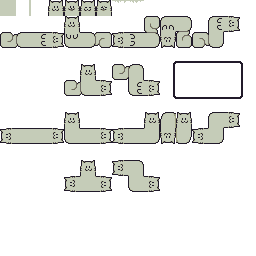
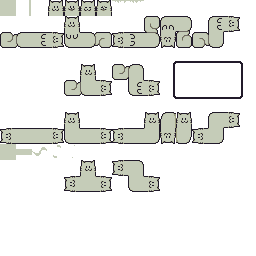
added particles when clearing lines

Changed region(s): [[0.0, 0.5625, 0.1562, 0.625], [0.2188, 0.5625, 0.25, 0.5938], [0.1562, 0.5625, 0.1875, 0.5938]]

diff --git a/Assets/spriteSheet.js b/Assets/spriteSheet.js
@@ -1,1 +1,1 @@
-var spriteSheet = "!g&d!2&i^2&a^2&2^2&a^2&2^2&a^2&2^2&a^2&!w&M1!g&d!2&i^@^%^6%^@^&2^@^%^6%^@^&2^@^%^6%^@^&2^@^%^6%^@^&4!&!2&!&3!2&4!&!2&!3&2!&P1!g&d!2&i^!@^@!4@^@!^&2^!@^@!4@^@!^&2^!@^@!4@^@!^&2^!@^@!4@^@!^&7!&5!&8!&2!&T1!g&d!2&i^!c^&2^!c^&2^!c^&2^!c^&h2!g&d!2&i^!c^&2^!c^&2^!c^&2^!c^&h2!g&d!2&i^!c^&2^!c^&2^!c^&2^!c^&h2!g&d!2&h%@!4^!2^!4@%2@!4^!2^!4@%2@!c@%2@!4%!%!5@%&g2!g&d!2&h^!5^!2^!5^2!5^!2^!5^2!4^2!2^2!4^2!4^2!2^2!4^&g2!g&d!2&h^%!2@!5@!3%^2%!2%!2^!2%!3%^2%!2@!5@!3%^2%!5^!6%^&g2!g&d!2&h^!3^!2^!2^!4^2!3@^%3^@!4^2!3^!2^!2^!4^2!3@^%3^@!4^&g2!g&d!2&h^%!2@^%!%^@!3%^2%!4@%2!5%^2%!2@^%!%^@!3%^2%!4@%@!5%^&g2!g&d!2&h@!e@2!e@2!e@2!e@&g2!g&d!2&h^!e^2!e^2!e^2!e^&g2!g&d!2&h^!e^2!e^2!e^2!e^&g2!g&d!2&h^!e^2!e^2!e^2!e^&g2!g&d!2&h^!e^2!e^2!e^2!e^&h3^2&a^2&31^c&6^o&o^g@^4%&n1^@^%^6%^@^&21^@!a@^&3^2@!m@^2&k^2@!g%!%!@^6&h1^!@^@!4@^@!^&11^@!c@^&^@!q@^&i^@!7@^3!g@^&h1^!c^&11^!e^&^!s^&i^!7@^!i@^&i1^!c^&11^!e^2@!s@^&g^@!7^!b@^@!5^%&i1^!c^&11^!e^2!u^&g^!8^!b^!7@^&h1%@!4^!2^!4@%&01^!e^2!u^&g^!8@^3!8%!2^2!4^&h1^!5^!2^!5^&01^!5@!8^2!u^&g^!l^!7^&h1^%!2@!5@!3%^&01^!5%!8^2!u^&g^!k%!8^&h1^!3^!2^!2^!4^&01^!5%!8^2!2@^2@!2@^2@!i^&g^!8@^3!8^!2^2!4^&h1^%!2@^%!%^@!3%^&01^!5%@!6@^2!@^!2^!2^!2^@!h^&g^!8^!b@^@!5@^&h1@!e@&01^!6%@!4@^&^!^!3^!2^!3^!g@^&g^!8^!j^%&h1^!e^&01^!7%6&2^!^!3^!2^!3^!g^&h^!8@^!i@^&h1^!e^&01^!a@^&3^!^!a^!f@^&h^!9@^3!g@^&g1^!e^&01^@!a@^&2^!q@^2&i^!k%!%!@^6&g1^!e^&11^@!a^&2^!e@^3%9@^&i^!e@^4@^4%&o^9&9^w@^4%&6^!e@^c&4^e&8%^4@^n%9@^&2^!e^&^@!a^&4^d&^!e^&x^@!7@^&6^2@!w%!%!@^7!q@^2&^@!c@^&^6@!%!%!w@^2&2^!e^2@!a@^&3^@!b@^2!e^&w^@!9@%&^4@!n@^3!g@^2!^!a^!f@^@!e@^2@!g^3@!n@^&^!e^2!a@^&3^@!d@^!e^&w^!b%^@!@^!n@^!i@^&^!^!3^!2^!3^!g^!g^&^@!i^@!n^&^!e^2!7%6&2^!f%!e^&w^!b%@!2%@!n^!b@^@!5^%&^!^!3^!2^!3^!g@%!f^&%^!j^!n@^@!e@^!6%@!4@^&^!f%!e^&w^!b%!3%!o^!b^!7@^&^!@^!2^!2^!2^@!h%!f^&^@!5@^@!b^!o^2%!2@^%!%^@!3%^2!5%@!6@^2!f%!e^&w^!b%!3%!o@^3!8%!2^2!4^&^!2@^2@!2@^2@!i%!5%3@!6^&^!4^2!2^!8^3@!o^2!3^!2^!2^!4^2!5%!8^2!6@%3!5%!e^&w^!a@%!3%!B^!7^&^!u%!4%@!9^&^!8%!A^2%!2@!5@!3%^2!5%!8^2!9@%!4%!e^&w^!9@%!4%!A%!8^&^!u%!3%@!a^&^!7^!B^2!5^!2^!5^2!5@!8^2!a@%!3%!e^&w^!6@%3!5%!o@^3!8^!2^2!4^&^!u%!3%!b^&^!4^2!2%!8^3@!o^%@!4^!2^!4@%^!e^2!b%!3%!e^&w^!f%!o^!b@^@!5@^&^!u%!3%!b^&^@!7^!b^!o^&^!c^&^!e^2!b%!3%!e^&w^!f%@!n^!j^%&^@!s@%!2@%!b^&%^!5@^@!b^!n@^&^!c^&^!e^2!b%@!2%@!c@^&w^!g^!n@^!i@^&2^!s^@!@^%!b^&^@!i^@!n^&2^!c^&^!e^2!b%^@!@^!c^&x^@!e@^@!n@^3!g@^&^@!q@^4&%@!9@^2@!g^3@!n@^&2^!@^@!4@^@!^&^@!c@^2@!9@%&^4@!a@^&y^@!c@^&^2@!w%!%!@^6&2^2@!m@^2&6^@!7@^&^6@!%!%!w@^2&3^@^%^6%^@^&2^@!a@^&2^@!7@^&6^2@!6@^2&A^e&4^w@^4%&a^o&9^9&8%^4@^w&5^2&a^2&3^c&4^9&9^8&jT^21&Z2^41&X2^3&01^3&u1^2&a^2&j^9&9^8&x^2&21^2&u1^@^%^6%^@^&i^@!7@^&6^2@!6@^2&v^2&21^2&u1^!@^@!4@^@!^&h^@!9@%&^4@!a@^&u^2&21^2&u1^!c^&h^!b%^@!@^!c^&u^2&21^2&u1^!c^&h^!b%@!2%@!c@^&t^2&21^2&u1^!c^&h^!b%!3%!e^&t^2&21^2&t1%@!4^!2^!4@%&g^!b%!3%!e^&t^2&21^2&t1^!5^!2^!5^&g^!a@%!3%!e^&t^2&21^2&t1^%!3@!5@!2%^&g^!9@%!4%!e^&t^2&21^2&t1^!4^!2^!2^!3^&g^!6@%3!5%!e^&t^2&21^2&t1^%!3@^%!%^@!2%^&g^!f%!e^&t^2&21^2&t1@!e@&g^!f%!e^&t^2&21^2&t1^!e^&g^!f%!e^&t^2&21^2&t1^!e^&g^@!d@^!e^&t^2&21^2&t1^!e^&h^@!b@^2!e^&t^2&21^2&t1^!e^&i^d&^!e^&t^2&21^2&f1^9&5^!e@^4@^4%&m^!e@^4@^4%&j^2&21^2&e1^@!7@^&4^!k%!%!@^6&g^!k%!%!@^6&d^2&21^2&d1^@!9@%&^2%!t@^&g^!9@^3!g@^&d^2&21^2&d1^!b%^@!%!s@^&h^!8@^!i@^&e^2&21^2&d1^!b%@!2%!s^%&h^!8^!j^%&e^2&21^2&d1^!b%!3%!k@^@!5@^&h^!8^!b@^@!5@^&e^2&21^2&d1^!b%!3%!k^!2^2!4^&h^!8@^3!8^!2^2!4^&e^2&21^2&d1^!a@%!3%!k%!8^&h^!k%!8^&e^2&21^2&d1^!9@%!4%!l^!7^&h^!l^!7^&e^2&21^2&d1^!6@%3!5%!k%!2^2!4^&h^!8@^3!8%!2^2!4^&e^2&21^2&d1^!f%!k^!7@^&h^!8^!b^!7@^&e^2&21^2&d1^!f%@!j@^@!5^%&h^@!7^!b@^@!5^%&e^2&21^2&d1^!g^!r@^&i^!7@^!i@^&e^2&21^2&d1^@!e@^@!r@^&h^@!7@^3!g@^&d^2&21^2&e1^@!c@^&^2@!g%!%!@^6&i^2@!g%!%!@^6&d^2&21^2&f1^e&4^g@^4%&q^g@^4%&j^2&21^2&W2^3&01^3&X2^41&Z2^21&gR^2&a^2&21^2&a^2&6^9&3^2&a^2&l^g@^4%&n1^@^%^6%^@^&21^@^%^6%^@^&4^2@!7@^2&^@^%^6%^@^&j^2@!g%!%!@^6&h1^!@^@!4@^@!^&21^!@^@!4@^@!^&3^@!a@2&^!@^@!4@^@!^&i^@!r@^&h1^!c^&21^!c^&3^!b@2&^!c^&i^!r@^&i1^!c^&21^!c^&2^@!c@&^!c^&h^@!j@^@!5^%&i1^!c^&21^!c^&2^!d@&^!c^&h^!k^!7@^&h1%@!4^!2^!4@%&01%@!4^!2^!4@%&^!d@%@!4^!2^!4@%&g^!k%!2^2!4^&h1^!5^!2^!5^&01^!5^!2^!5^2!e@^!5^!2^!5^&g^!l^!7^&h1^%!2@!5@!3%^&01^%!3@!5@!2%^2!e@^%!3@!5@!2%^&g^!k%!8^&h1^!3^!2^!2^!4^&01^!4^!2^!2^!3^2!e@^!4^!2^!2^!3^&g^!k^!2^2!4^&h1^%!2@^%!%^@!3%^&01^%!3@^%!%^@!2%^2!e@^%!3@^%!%^@!2%^&g^!k@^@!5@^&h1@!e@&01@!e@^!e@2!e@&g^!s^%&h1^!e^&01^!e^2!e@^!e^&g^!s@^&h1^!e^&01^!e^2!e@^!e^&g^!t@^&g1^!e^&01^!e^2!e@^!e^&g^!k%!%!@^6&g1^!e^&01^!e^2!e@^!e^&g^!e@^4@^4%&s%^4@^E@^4%&6^!e@^k@^4%&c%^4@^k@!e^2!e^@!e^&6%^4@^4@!e^&w^6@!%!%!G%!%!@^7!A%!%!@^c@!%!%!A^2!e^@!e^7@!%!%!k^&w^@!Y@^2!J@^2@!J^2!e^@!e^2@!t^&x^@!W@^&^!I@^&2^@!I^2!e^@!e^&^@!s^&x%^!O@^@!5^%&^!A@^@!5^%&2%^!I^@!e@2!e^&%^!s^&x^@!5@^@!G^!7@^&^!A^!7@^&2^@!5@^@!A^2%!2@^%!%^@!3%^@!e^&^@!5@^@!k^&x^!4^2!2^!G%!2^2!4^&^!A%!2^2!4^&2^!4^2!2^!A^2!3^!2^!2^!4^@!e^&^!4^2!2^!k^&x^!8%!H^!7^&^!B^!7^&2^!8%!A^2%!2@!5@!3%^@!e^&^!8%!k^&x^!7^!H%!8^&^!A%!8^&2^!7^!B^2!5^!2^!5^@!e^&^!7^!l^&x^!4^2!2%!G^!2^2!4^&^!A^!2^2!4^&2^!4^2!2%!A^%@!4^!2^!4@%@!d^&2^!4^2!2%!k^&x^@!7^!G@^@!5@^&^!A@^@!5@^&2^@!7^!A^&^!c^&@!d^&2^@!7^!k^&x%^!5@^@!O^%&^@!H^%&2%^!5@^@!z@^&^!c^&@!c@^&2%^!5@^@!j@^&x^@!W@^&2^!H@^&2^@!H^&2^!c^&@2!b^&3^@!r^&x^@!Y@^&^@!H@^2@!H@^&2^!@^@!4@^@!^&@2!a@^&2^@!r@^&x^6@!%!%!G%!%!@^6&2^2@!w%!%!@^c@!%!%!w@^2&3^@^%^6%^@^&^2@!7@^2&3^6@!%!%!g@^2&E%^4@^E@^4%&a^w@^4%&c%^4@^w&5^2&a^2&3^9&b%^4@^g&$$&S1^2&a^2&n%^4@^g&53^@^%^6%^@^&h^6@!%!%!g@^2&33^!@^@!4@^@!^&h^@!r@^&23^!c^&i^@!r^&23^!c^&i%^!5@^@!j@^&13^!c^&i^@!7^!k^&03%@!4^!2^!4@%&h^!4^2!2%!k^&03^!5^!2^!5^&h^!7^!l^&03^%!3@!5@!2%^&h^!8%!k^&03^!4^!2^!2^!3^&h^!4^2!2^!k^&03^%!3@^%!%^@!2%^&h^@!5@^@!k^&03@!e@&h%^!s^&03^!e^&h^@!s^&03^!e^&g^@!t^&03^!e^&g^6@!%!%!k^&03^!e^&m%^4@^4@!e^&S2%^4@^4@!e@^4@^4%&m^!e@^4@^4%&C2^6@!%!%!q%!%!@^6&g^!k%!%!@^6&w2^@!I@^&g^!t@^&x2^@!G@^&h^!s@^&y2%^!5@^@!y^%&h^!s^%&y2^@!7^!q@^@!5@^&h^!k@^@!5@^&y2^!4^2!2%!q^!2^2!4^&h^!k^!2^2!4^&y2^!7^!r%!8^&h^!k%!8^&y2^!8%!r^!7^&h^!l^!7^&y2^!4^2!2^!q%!2^2!4^&h^!k%!2^2!4^&y2^@!5@^@!q^!7@^&h^!k^!7@^&y2%^!y@^@!5^%&h^@!j@^@!5^%&y2^@!G@^&i^!r@^&x2^@!I@^&h^@!r@^&w2^6@!%!%!q%!%!@^6&i^2@!g%!%!@^6&C2%^4@^o@^4%&q^g@^4%&$$&$$&$$&$$&G1"
+var spriteSheet = "!g&d!2&i^2&a^2&2^2&a^2&2^2&a^2&2^2&a^2&!w&M1!g&d!2&i^@^%^6%^@^&2^@^%^6%^@^&2^@^%^6%^@^&2^@^%^6%^@^&4!&!2&!&3!2&4!&!2&!3&2!&P1!g&d!2&i^!@^@!4@^@!^&2^!@^@!4@^@!^&2^!@^@!4@^@!^&2^!@^@!4@^@!^&7!&5!&8!&2!&T1!g&d!2&i^!c^&2^!c^&2^!c^&2^!c^&h2!g&d!2&i^!c^&2^!c^&2^!c^&2^!c^&h2!g&d!2&i^!c^&2^!c^&2^!c^&2^!c^&h2!g&d!2&h%@!4^!2^!4@%2@!4^!2^!4@%2@!c@%2@!4%!%!5@%&g2!g&d!2&h^!5^!2^!5^2!5^!2^!5^2!4^2!2^2!4^2!4^2!2^2!4^&g2!g&d!2&h^%!2@!5@!3%^2%!2%!2^!2%!3%^2%!2@!5@!3%^2%!5^!6%^&g2!g&d!2&h^!3^!2^!2^!4^2!3@^%3^@!4^2!3^!2^!2^!4^2!3@^%3^@!4^&g2!g&d!2&h^%!2@^%!%^@!3%^2%!4@%2!5%^2%!2@^%!%^@!3%^2%!4@%@!5%^&g2!g&d!2&h@!e@2!e@2!e@2!e@&g2!g&d!2&h^!e^2!e^2!e^2!e^&g2!g&d!2&h^!e^2!e^2!e^2!e^&g2!g&d!2&h^!e^2!e^2!e^2!e^&g2!g&d!2&h^!e^2!e^2!e^2!e^&h3^2&a^2&31^c&6^o&o^g@^4%&n1^@^%^6%^@^&21^@!a@^&3^2@!m@^2&k^2@!g%!%!@^6&h1^!@^@!4@^@!^&11^@!c@^&^@!q@^&i^@!7@^3!g@^&h1^!c^&11^!e^&^!s^&i^!7@^!i@^&i1^!c^&11^!e^2@!s@^&g^@!7^!b@^@!5^%&i1^!c^&11^!e^2!u^&g^!8^!b^!7@^&h1%@!4^!2^!4@%&01^!e^2!u^&g^!8@^3!8%!2^2!4^&h1^!5^!2^!5^&01^!5@!8^2!u^&g^!l^!7^&h1^%!2@!5@!3%^&01^!5%!8^2!u^&g^!k%!8^&h1^!3^!2^!2^!4^&01^!5%!8^2!2@^2@!2@^2@!i^&g^!8@^3!8^!2^2!4^&h1^%!2@^%!%^@!3%^&01^!5%@!6@^2!@^!2^!2^!2^@!h^&g^!8^!b@^@!5@^&h1@!e@&01^!6%@!4@^&^!^!3^!2^!3^!g@^&g^!8^!j^%&h1^!e^&01^!7%6&2^!^!3^!2^!3^!g^&h^!8@^!i@^&h1^!e^&01^!a@^&3^!^!a^!f@^&h^!9@^3!g@^&g1^!e^&01^@!a@^&2^!q@^2&i^!k%!%!@^6&g1^!e^&11^@!a^&2^!e@^3%9@^&i^!e@^4@^4%&o^9&9^w@^4%&6^!e@^c&4^e&8%^4@^n%9@^&2^!e^&^@!a^&4^d&^!e^&x^@!7@^&6^2@!w%!%!@^7!q@^2&^@!c@^&^6@!%!%!w@^2&2^!e^2@!a@^&3^@!b@^2!e^&w^@!9@%&^4@!n@^3!g@^2!^!a^!f@^@!e@^2@!g^3@!n@^&^!e^2!a@^&3^@!d@^!e^&w^!b%^@!@^!n@^!i@^&^!^!3^!2^!3^!g^!g^&^@!i^@!n^&^!e^2!7%6&2^!f%!e^&w^!b%@!2%@!n^!b@^@!5^%&^!^!3^!2^!3^!g@%!f^&%^!j^!n@^@!e@^!6%@!4@^&^!f%!e^&w^!b%!3%!o^!b^!7@^&^!@^!2^!2^!2^@!h%!f^&^@!5@^@!b^!o^2%!2@^%!%^@!3%^2!5%@!6@^2!f%!e^&w^!b%!3%!o@^3!8%!2^2!4^&^!2@^2@!2@^2@!i%!5%3@!6^&^!4^2!2^!8^3@!o^2!3^!2^!2^!4^2!5%!8^2!6@%3!5%!e^&w^!a@%!3%!B^!7^&^!u%!4%@!9^&^!8%!A^2%!2@!5@!3%^2!5%!8^2!9@%!4%!e^&w^!9@%!4%!A%!8^&^!u%!3%@!a^&^!7^!B^2!5^!2^!5^2!5@!8^2!a@%!3%!e^&w^!6@%3!5%!o@^3!8^!2^2!4^&^!u%!3%!b^&^!4^2!2%!8^3@!o^%@!4^!2^!4@%^!e^2!b%!3%!e^&w^!f%!o^!b@^@!5@^&^!u%!3%!b^&^@!7^!b^!o^&^!c^&^!e^2!b%!3%!e^&w^!f%@!n^!j^%&^@!s@%!2@%!b^&%^!5@^@!b^!n@^&^!c^&^!e^2!b%@!2%@!c@^&w^!g^!n@^!i@^&2^!s^@!@^%!b^&^@!i^@!n^&2^!c^&^!e^2!b%^@!@^!c^&x^@!e@^@!n@^3!g@^&^@!q@^4&%@!9@^2@!g^3@!n@^&2^!@^@!4@^@!^&^@!c@^2@!9@%&^4@!a@^&y^@!c@^&^2@!w%!%!@^6&2^2@!m@^2&6^@!7@^&^6@!%!%!w@^2&3^@^%^6%^@^&2^@!a@^&2^@!7@^&6^2@!6@^2&A^e&4^w@^4%&a^o&9^9&8%^4@^w&5^2&a^2&3^c&4^9&9^8&jT^21&Z2^41&X2^3&01^3&u1^2&a^2&j^9&9^8&x^2&21^2&u1^@^%^6%^@^&i^@!7@^&6^2@!6@^2&v^2&21^2&u1^!@^@!4@^@!^&h^@!9@%&^4@!a@^&u^2&21^2&u1^!c^&h^!b%^@!@^!c^&u^2&21^2&u1^!c^&h^!b%@!2%@!c@^&t^2&21^2&u1^!c^&h^!b%!3%!e^&t^2&21^2&t1%@!4^!2^!4@%&g^!b%!3%!e^&t^2&21^2&t1^!5^!2^!5^&g^!a@%!3%!e^&t^2&21^2&t1^%!3@!5@!2%^&g^!9@%!4%!e^&t^2&21^2&t1^!4^!2^!2^!3^&g^!6@%3!5%!e^&t^2&21^2&t1^%!3@^%!%^@!2%^&g^!f%!e^&t^2&21^2&t1@!e@&g^!f%!e^&t^2&21^2&t1^!e^&g^!f%!e^&t^2&21^2&t1^!e^&g^@!d@^!e^&t^2&21^2&t1^!e^&h^@!b@^2!e^&t^2&21^2&t1^!e^&i^d&^!e^&t^2&21^2&f1^9&5^!e@^4@^4%&m^!e@^4@^4%&j^2&21^2&e1^@!7@^&4^!k%!%!@^6&g^!k%!%!@^6&d^2&21^2&d1^@!9@%&^2%!t@^&g^!9@^3!g@^&d^2&21^2&d1^!b%^@!%!s@^&h^!8@^!i@^&e^2&21^2&d1^!b%@!2%!s^%&h^!8^!j^%&e^2&21^2&d1^!b%!3%!k@^@!5@^&h^!8^!b@^@!5@^&e^2&21^2&d1^!b%!3%!k^!2^2!4^&h^!8@^3!8^!2^2!4^&e^2&21^2&d1^!a@%!3%!k%!8^&h^!k%!8^&e^2&21^2&d1^!9@%!4%!l^!7^&h^!l^!7^&e^2&21^2&d1^!6@%3!5%!k%!2^2!4^&h^!8@^3!8%!2^2!4^&e^2&21^2&d1^!f%!k^!7@^&h^!8^!b^!7@^&e^2&21^2&d1^!f%@!j@^@!5^%&h^@!7^!b@^@!5^%&e^2&21^2&d1^!g^!r@^&i^!7@^!i@^&e^2&21^2&d1^@!e@^@!r@^&h^@!7@^3!g@^&d^2&21^2&e1^@!c@^&^2@!g%!%!@^6&i^2@!g%!%!@^6&d^2&21^2&f1^e&4^g@^4%&q^g@^4%&j^2&21^2&W2^3&01^3&X2^41&Z2^21&gR^2&a^2&21^2&a^2&6^9&3^2&a^2&l^g@^4%&n1^@^%^6%^@^&21^@^%^6%^@^&4^2@!7@^2&^@^%^6%^@^&j^2@!g%!%!@^6&h1^!@^@!4@^@!^&21^!@^@!4@^@!^&3^@!a@2&^!@^@!4@^@!^&i^@!r@^&h1^!c^&21^!c^&3^!b@2&^!c^&i^!r@^&i1^!c^&21^!c^&2^@!c@&^!c^&h^@!j@^@!5^%&i1^!c^&21^!c^&2^!d@&^!c^&h^!k^!7@^&h1%@!4^!2^!4@%&01%@!4^!2^!4@%&^!d@%@!4^!2^!4@%&g^!k%!2^2!4^&h1^!5^!2^!5^&01^!5^!2^!5^2!e@^!5^!2^!5^&g^!l^!7^&h1^%!2@!5@!3%^&01^%!3@!5@!2%^2!e@^%!3@!5@!2%^&g^!k%!8^&h1^!3^!2^!2^!4^&01^!4^!2^!2^!3^2!e@^!4^!2^!2^!3^&g^!k^!2^2!4^&h1^%!2@^%!%^@!3%^&01^%!3@^%!%^@!2%^2!e@^%!3@^%!%^@!2%^&g^!k@^@!5@^&h1@!e@&01@!e@^!e@2!e@&g^!s^%&h1^!e^&01^!e^2!e@^!e^&g^!s@^&h1^!e^&01^!e^2!e@^!e^&g^!t@^&g1^!e^&01^!e^2!e@^!e^&g^!k%!%!@^6&g1^!e^&01^!e^2!e@^!e^&g^!e@^4@^4%&s%^4@^E@^4%&6^!e@^k@^4%&c%^4@^k@!e^2!e^@!e^&6%^4@^4@!e^&w^6@!%!%!G%!%!@^7!A%!%!@^c@!%!%!A^2!e^@!e^7@!%!%!k^&w^@!Y@^2!J@^2@!J^2!e^@!e^2@!t^&x^@!W@^&^!I@^&2^@!I^2!e^@!e^&^@!s^&x%^!O@^@!5^%&^!A@^@!5^%&2%^!I^@!e@2!e^&%^!s^&x^@!5@^@!G^!7@^&^!A^!7@^&2^@!5@^@!A^2%!2@^%!%^@!3%^@!e^&^@!5@^@!k^&x^!4^2!2^!G%!2^2!4^&^!A%!2^2!4^&2^!4^2!2^!A^2!3^!2^!2^!4^@!e^&^!4^2!2^!k^&x^!8%!H^!7^&^!B^!7^&2^!8%!A^2%!2@!5@!3%^@!e^&^!8%!k^&x^!7^!H%!8^&^!A%!8^&2^!7^!B^2!5^!2^!5^@!e^&^!7^!l^&x^!4^2!2%!G^!2^2!4^&^!A^!2^2!4^&2^!4^2!2%!A^%@!4^!2^!4@%@!d^&2^!4^2!2%!k^&x^@!7^!G@^@!5@^&^!A@^@!5@^&2^@!7^!A^&^!c^&@!d^&2^@!7^!k^&x%^!5@^@!O^%&^@!H^%&2%^!5@^@!z@^&^!c^&@!c@^&2%^!5@^@!j@^&x^@!W@^&2^!H@^&2^@!H^&2^!c^&@2!b^&3^@!r^&x^@!Y@^&^@!H@^2@!H@^&2^!@^@!4@^@!^&@2!a@^&2^@!r@^&x^6@!%!%!G%!%!@^6&2^2@!w%!%!@^c@!%!%!w@^2&3^@^%^6%^@^&^2@!7@^2&3^6@!%!%!g@^2&E%^4@^E@^4%&a^w@^4%&c%^4@^w&5^2&a^2&3^9&b%^4@^g&A!g&M3!g&F!3&e!&R2!g&F!4&33!g&q!3&f!&33!g&p!5&i3!w&9!6&h3!w&8!2&4!&h3!x&6!2&n3!w&!2&4!2&n3!w&2!7&n3!w&3!5&o3!g&k!3&e!&a3!g&B!4&73!g&C!3&f!&T2!g&M3!g&15^2&a^2&n%^4@^g&53^@^%^6%^@^&h^6@!%!%!g@^2&33^!@^@!4@^@!^&h^@!r@^&23^!c^&i^@!r^&23^!c^&i%^!5@^@!j@^&13^!c^&i^@!7^!k^&03%@!4^!2^!4@%&h^!4^2!2%!k^&03^!5^!2^!5^&h^!7^!l^&03^%!3@!5@!2%^&h^!8%!k^&03^!4^!2^!2^!3^&h^!4^2!2^!k^&03^%!3@^%!%^@!2%^&h^@!5@^@!k^&03@!e@&h%^!s^&03^!e^&h^@!s^&03^!e^&g^@!t^&03^!e^&g^6@!%!%!k^&03^!e^&m%^4@^4@!e^&S2%^4@^4@!e@^4@^4%&m^!e@^4@^4%&C2^6@!%!%!q%!%!@^6&g^!k%!%!@^6&w2^@!I@^&g^!t@^&x2^@!G@^&h^!s@^&y2%^!5@^@!y^%&h^!s^%&y2^@!7^!q@^@!5@^&h^!k@^@!5@^&y2^!4^2!2%!q^!2^2!4^&h^!k^!2^2!4^&y2^!7^!r%!8^&h^!k%!8^&y2^!8%!r^!7^&h^!l^!7^&y2^!4^2!2^!q%!2^2!4^&h^!k%!2^2!4^&y2^@!5@^@!q^!7@^&h^!k^!7@^&y2%^!y@^@!5^%&h^@!j@^@!5^%&y2^@!G@^&i^!r@^&x2^@!I@^&h^@!r@^&w2^6@!%!%!q%!%!@^6&i^2@!g%!%!@^6&C2%^4@^o@^4%&q^g@^4%&$$&$$&$$&$$&G1"

diff --git a/Ketbit.js b/Ketbit.js
@@ -16,6 +16,7 @@ function Ketbit(x, y, angle, frame, head, game) {
   // game.ketbits.push(this);
 
   this.update = () => {
+
     if(this.ext) this.ext--;
     if(head > 1 && !this.ext) {
       this.ex = 0;
@@ -31,7 +32,7 @@ function Ketbit(x, y, angle, frame, head, game) {
   }
 
   this.fall = () => {
-    this.pos.y += 1;
+    setTimeout(() => {this.pos.y += 1}, 10*33);
   }
 
   this.collided = () => {
@@ -68,8 +69,11 @@ function Ketbit(x, y, angle, frame, head, game) {
 
   this.kill = () => {
     game.ketbits.splice(game.ketbits.indexOf(this), 1);
-    // spawn falling block particle
+    // ----- done ----- spawn falling block particle
     // add points
     // do something special if head
+    let c = frame;
+    let frames = [144, c, 144, c, 144, c, 144, 145, 146, 147];
+    new Particle(game, this.pos.x*16, this.pos.y*16, frames, [4, 64, 64, 64, 64]);
   }
 }

diff --git a/Game.js b/Game.js
@@ -88,6 +88,7 @@ function Game(level) {
 
     for (var k of this.ketbits) k.update(); // not in charge of falling!!!!
     for (var k of this.ketbits) k.draw();
+    for (var i = this.particles.length-1; i >= 0; i--) this.particles[i].draw();
 
     for (var i = 0; i < 15; i++) {
       palset([63,64,64,64,64]);
@@ -141,6 +142,20 @@ function Game(level) {
       put("PRESS R", 200-7*4, 120-4+8, 63);
       // noLoop();
     }
+  }
+}
+
+function Particle(game, x, y, frames, pal, speed, ...rest) {
+  game.particles.push(this);
+  this.life = 0;
+  this.draw = () => {
+    palset(pal);
+    spr(frames[this.life], x, y, ...rest);
+    this.life++;
+    if(this.life == frames.length) this.kill();
+  }
+  this.kill = () => {
+    game.particles.splice(game.particles.indexOf(this), 1);
   }
 }
 
